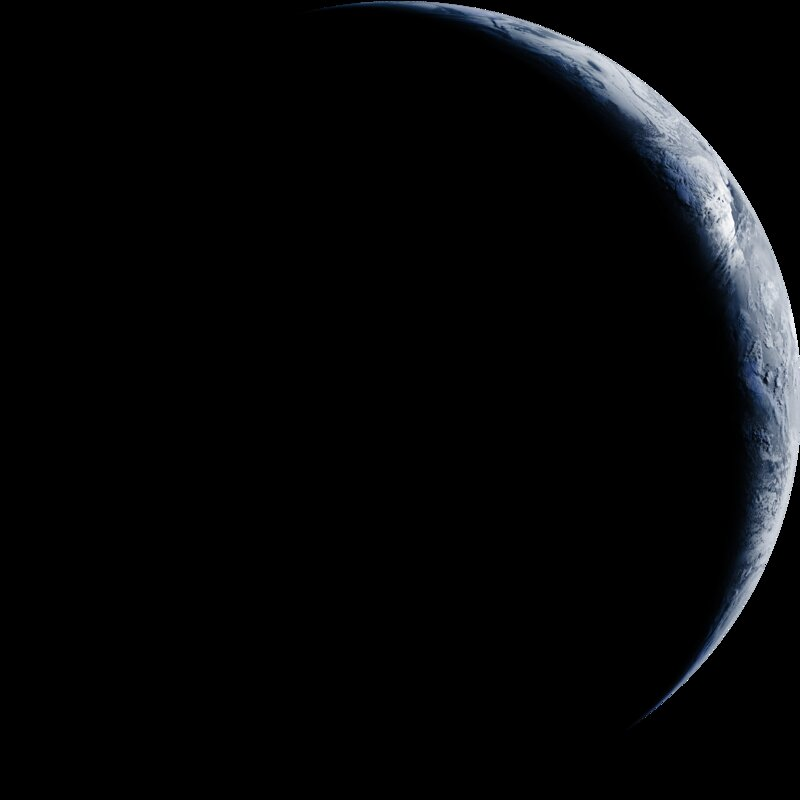
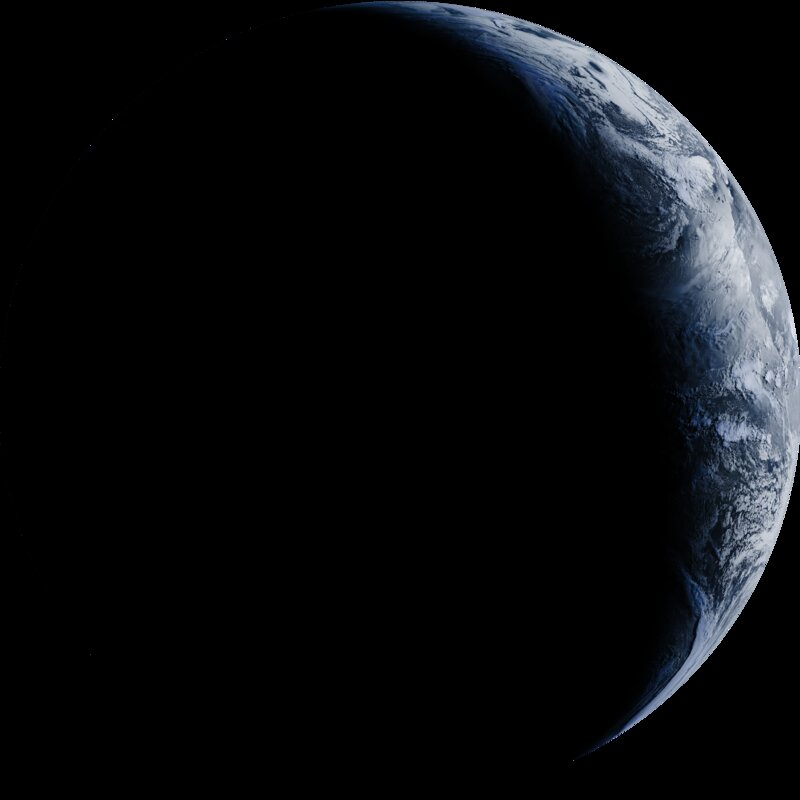
Update: 2026-05-04 12:00 UTC

Changed region(s): [[0.4688, 0.0, 1.0, 0.9062], [0.75, 0.9062, 0.7812, 0.9375]]

diff --git a/index.html b/index.html
@@ -75,7 +75,7 @@
                 <div class="timestamp" id="timestamp">Loading...</div>
             </div>
             <a class="img-link" onclick="openLightbox()" href="javascript:void(0)">
-                <img src="latest.jpg?v=1777892402" alt="Latest GOES-19 Full Disk Image" id="satimage">
+                <img src="latest.jpg?v=1777896002" alt="Latest GOES-19 Full Disk Image" id="satimage">
                 <div class="img-overlay">View full screen</div>
             </a>
             <div class="stats-bar">
@@ -139,7 +139,7 @@
     <!-- Lightbox -->
     <div class="lightbox" id="lightbox" onclick="closeLightbox()">
         <div class="lightbox-close" onclick="closeLightbox()">&#x2715;</div>
-        <img src="latest.jpg?v=1777892402" alt="GOES-19 Full Disk" id="lightbox-img">
+        <img src="latest.jpg?v=1777896002" alt="GOES-19 Full Disk" id="lightbox-img">
     </div>
 
     <script>
